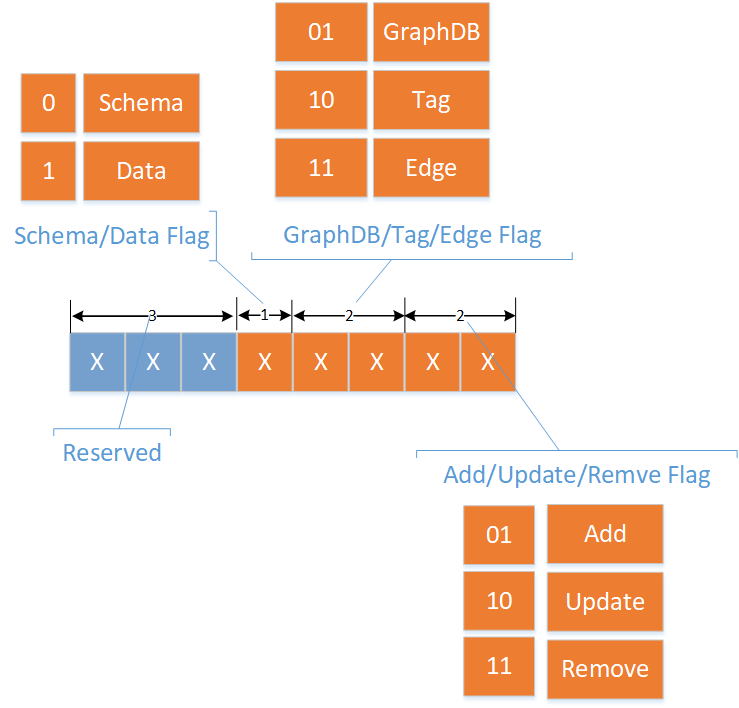
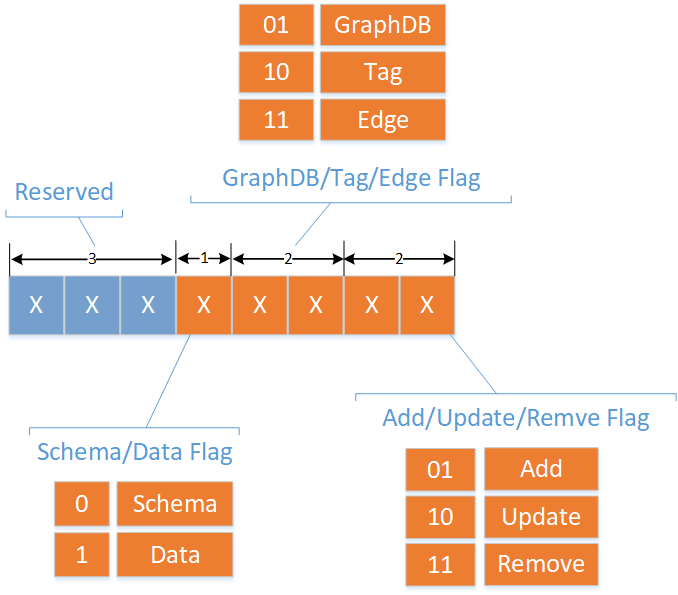
update pics to keep it consistent with readme

diff --git a/README.md b/README.md
@@ -139,10 +139,12 @@ And Vertex is conceptually a tuple2 of <VID,TagList>, which VID is a integer ass
 
 
 A Tag is conceptually a tuple2 of <TagName, PropertiesList>, which TagName is Tag' name(variable length, so its name's size should be encoded inside), and PropertiesList is a collection of Property, which defined as:
-1.	Property Name: name of the property.
-2.	Property Type：support common data type, including: integer、double、string and timestamp. When of type string, since it is variable length, an extra size field will be encoded to mark its boundary.
-3.	Property Value: value of the property according to Property Type.
-4.	Property Default Value： default value if the value is absent.
+1.	Property Name Size: length of property name.
+2.	Property Name: name of the property.
+3.	Property Type：support common data type, including: integer、double、string and timestamp. When of type string, since it is variable length, an extra size field will be encoded to mark its boundary.
+4.  HasDefaultValue: whether has default value. when in schema definition and HasDefaultValue=1, then the following 2 fields: __Property Default Value Size__ and __Property Default Value__ must be provided. when in data definition, HasDefaultValue is meaningless, keeping it is just to keep format consistent,
+5.	Property [Default/Actual] Value Size: value of the property according to Property Type.
+6.	Property [Default/Actual] Value: value of the property according to Property Type.
 In order to support __PropertiesList__, an extras __Properties Szie__ field to count how many properties a Tag has.
 
 
@@ -161,7 +163,7 @@ Vertex Data Log is composed of the following:
 1. Vertex Domain Value Size: value's size of the domain entity,to mark its boundary.
 2. Vertex Domain Value： domain entity's value，must be of string type.
 3. VID Generator Type: the function we used to make the domain entity to VID conversion. we use __Hash__.
-4. TagList: a collection of Tag，a Tag is tuple5 of<Property Name Size, Property Name, Property Type, Property Value Size, Property Value>, which every __Size__ field is used to mark the boundary of the corresponding __Value__ field. 
+4. TagList: a collection of Tag，a Tag is tuple6 of<Property Name Size, Property Name, Property Type, HasDefaultValue, Property Value Size, Property Value>, which every __Size__ field is used to mark the boundary of the corresponding __Value__ field. 
 
 ### Edge Data Log
 __Edge Data Log__ is used to manipulate edge's data.
